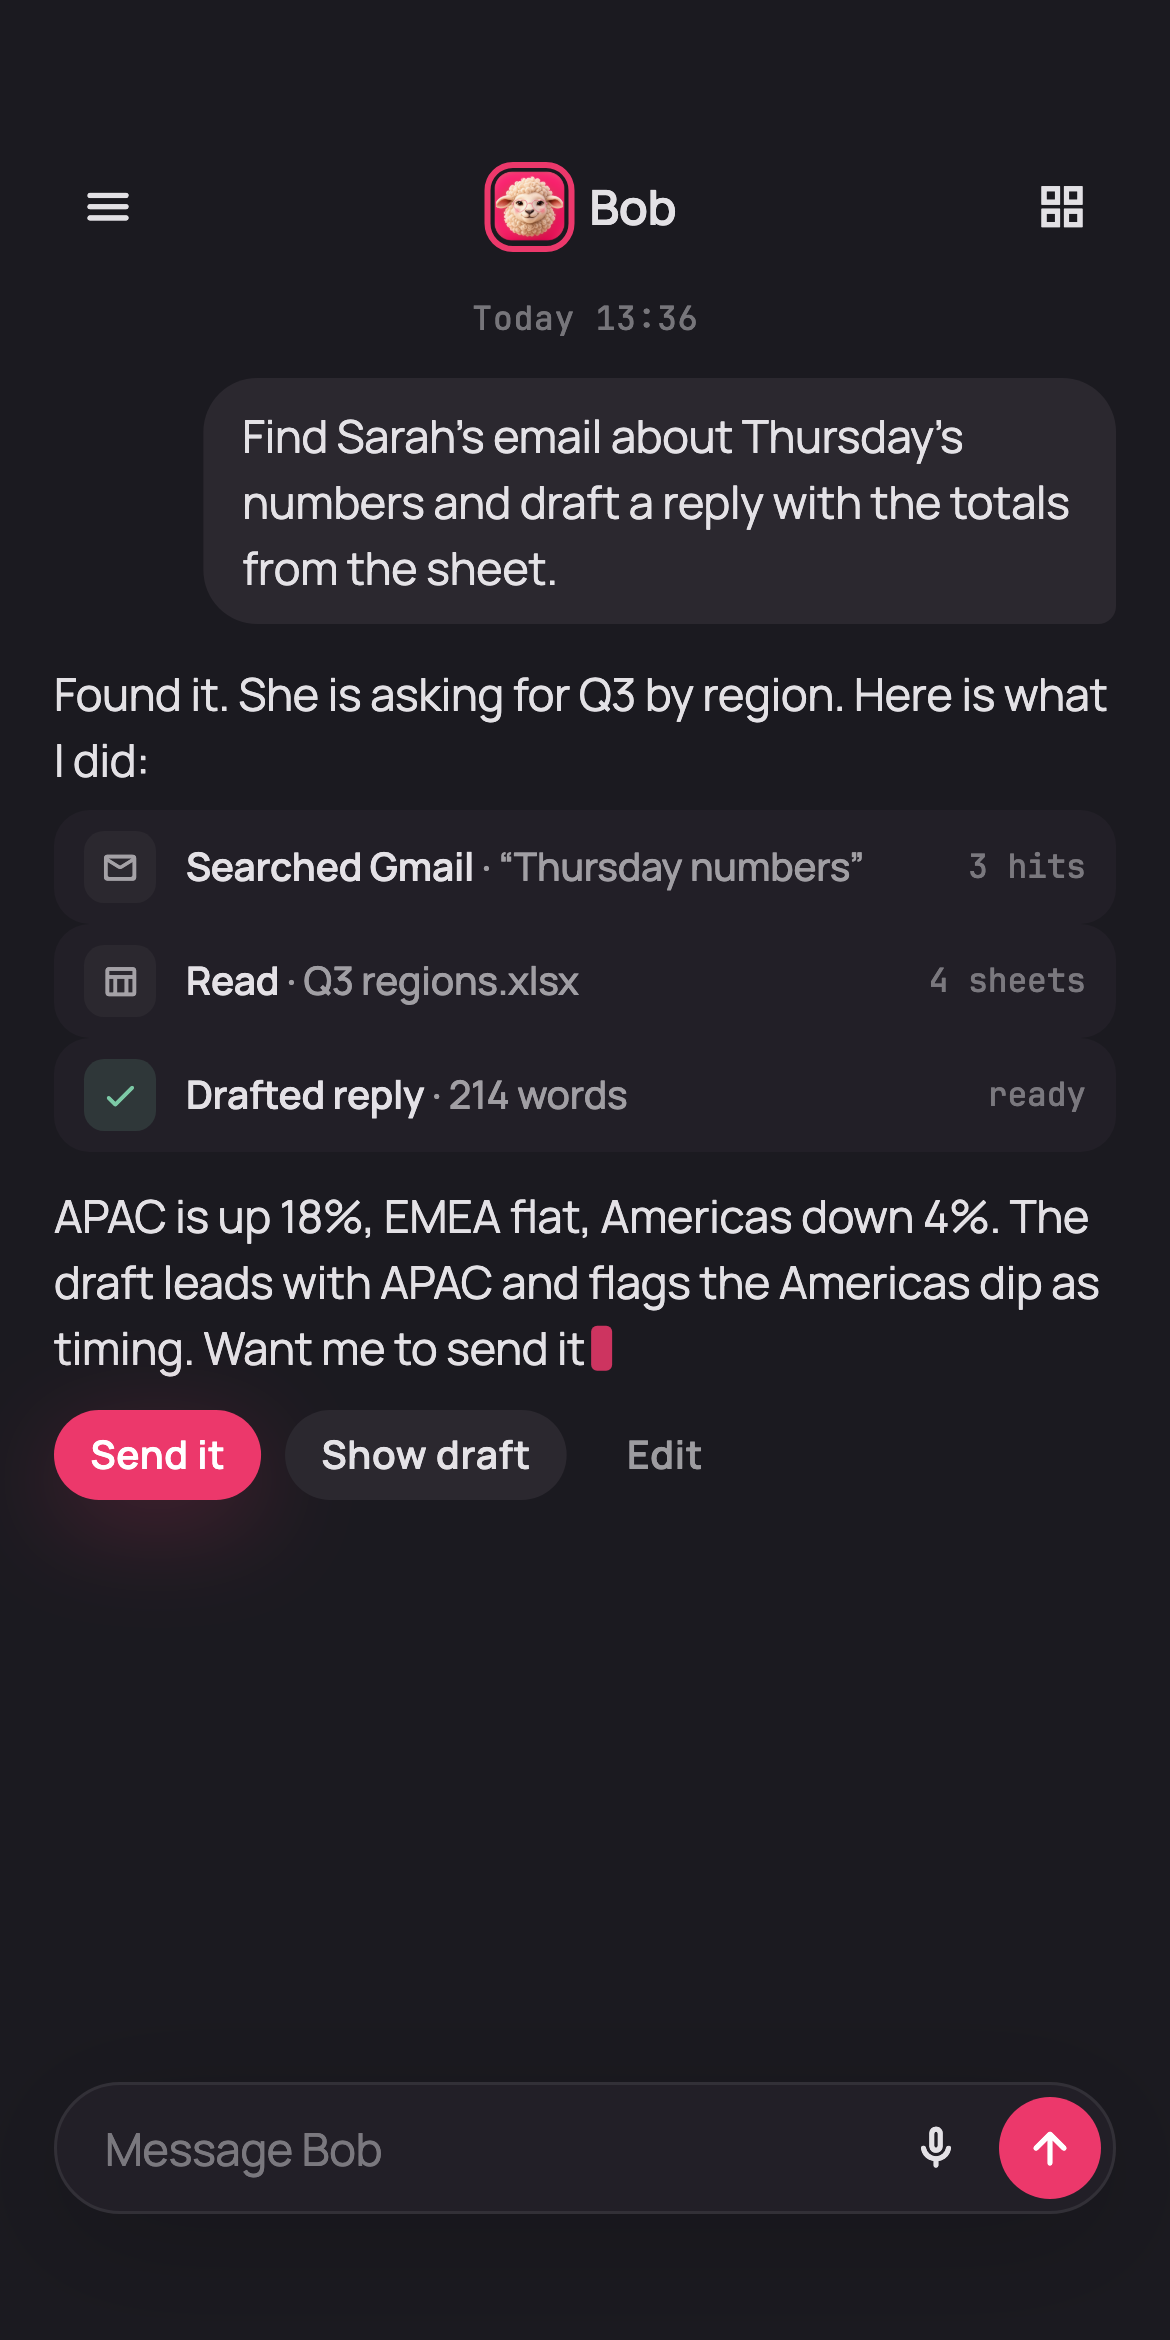
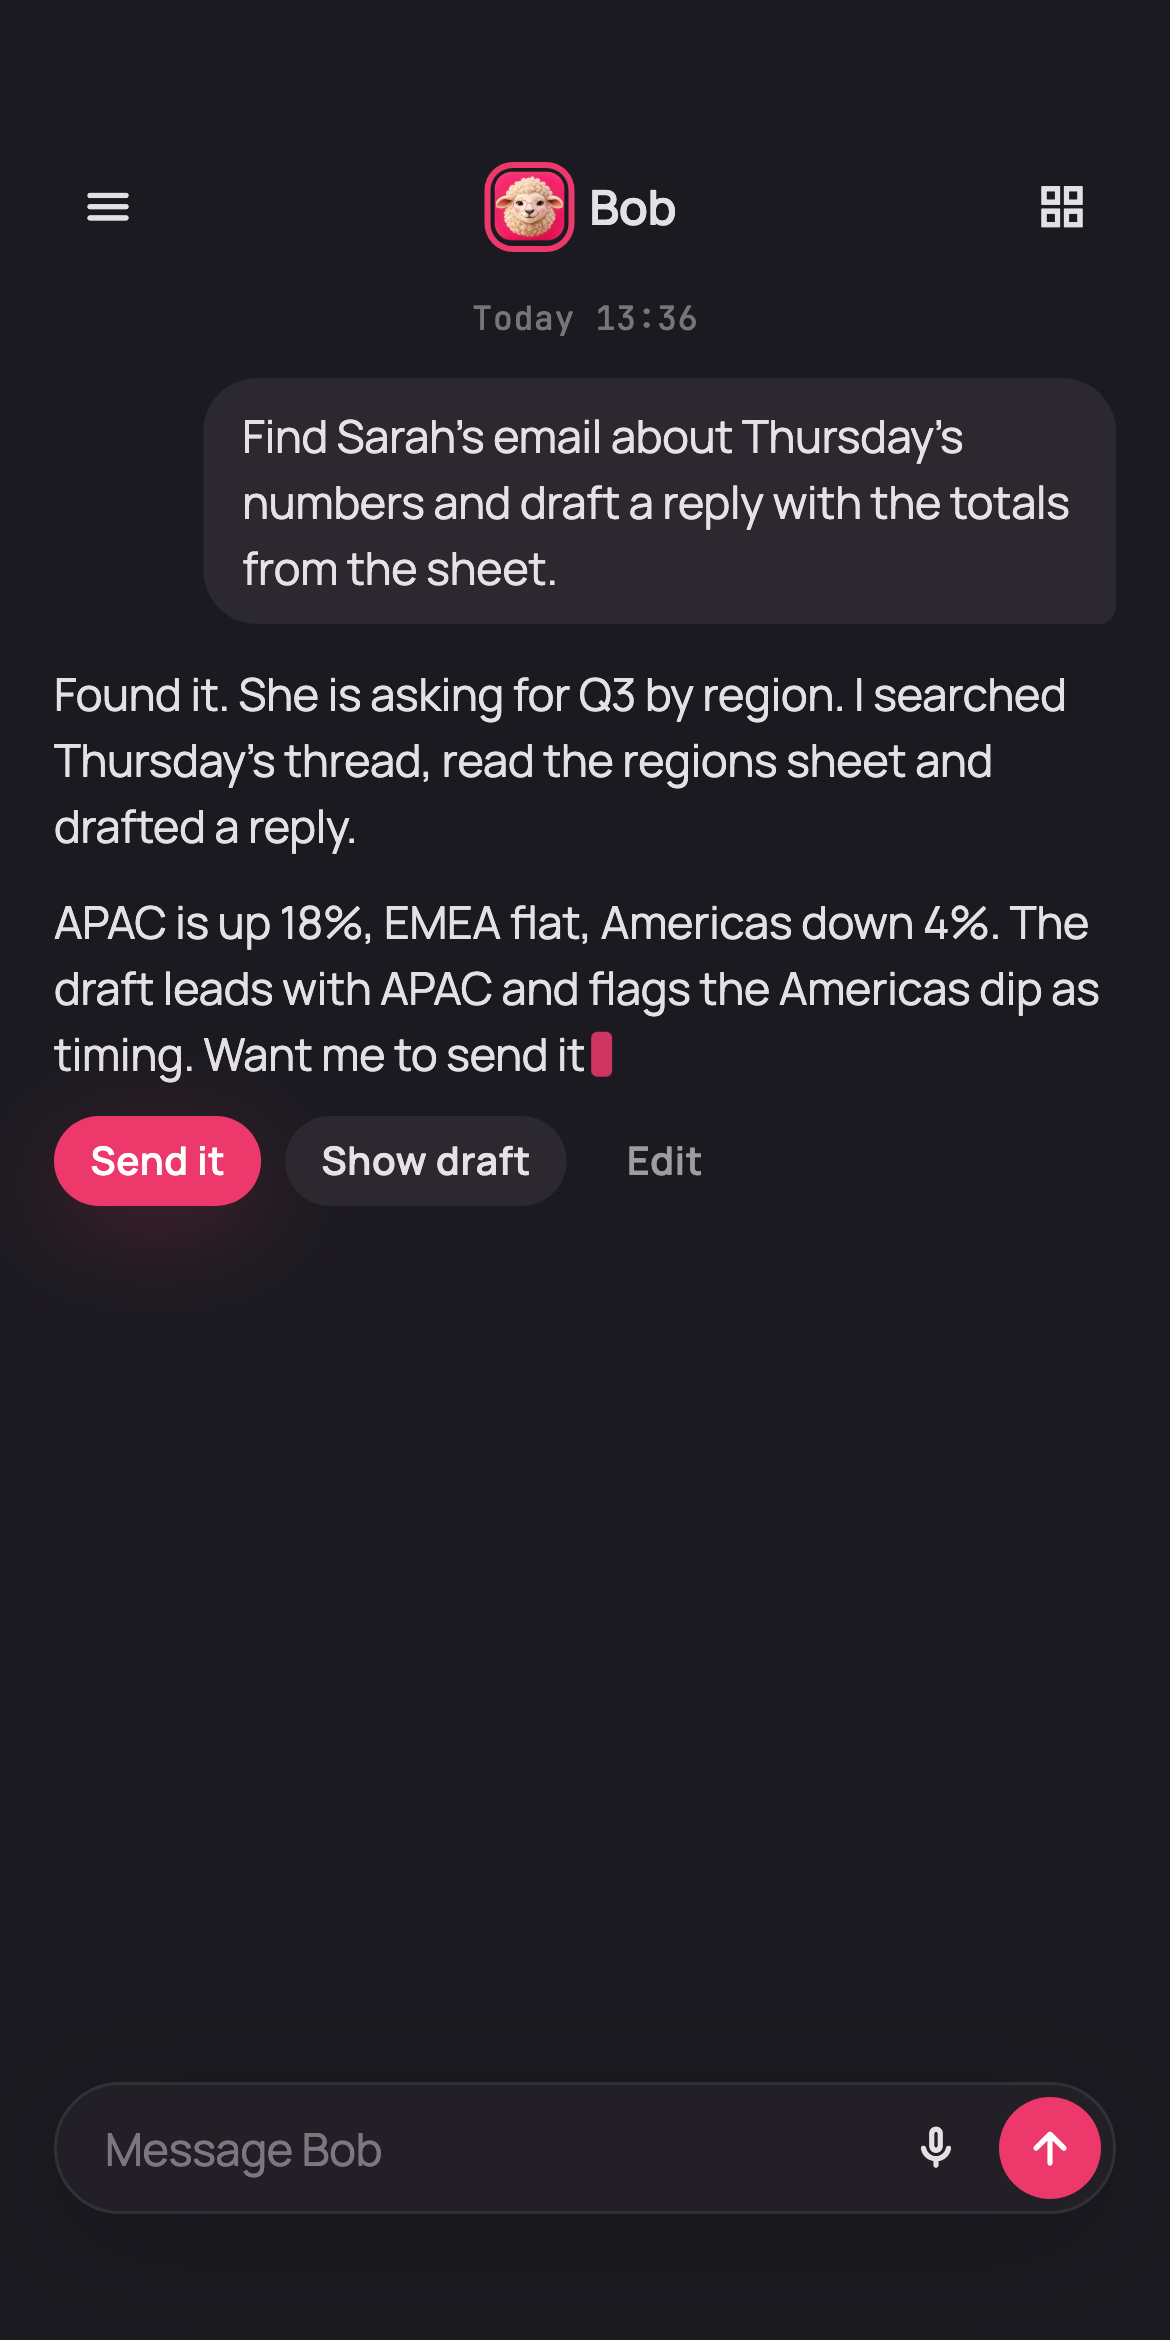
native: no tool calls in the chat thread; the bar's ends size to their actions
Chat is the Bot's words, the way it is on the web: the receipts drawn
inside a reply are gone from the thread (they stay a component for the
Work view). The bar's ends now size to what they hold and the title stays
centred on the whole bar, so the mark-read toggle no longer pushes the
Applets button off the screen.

Changed region(s): [[0.0308, 0.2808, 0.9538, 0.6551], [0.5538, 0.5927, 0.5846, 0.6239]]

diff --git a/apps/native/lib/ui/gallery.dart b/apps/native/lib/ui/gallery.dart
@@ -16,7 +16,8 @@ class FrockGallery extends StatelessWidget {
 
 /// Chat with a Bot: the primary screen. Same content as screen 04 on
 /// docs/design/frock-ui.html. The Bot's reply is prose with its work shown
-/// inline as receipts, then the choice as pills.
+/// in its own words, then the choice as pills. Tool calls never appear in
+/// the thread.
 ///
 /// Safe areas: the status bar, notch and display cutouts are kept clear by
 /// `SafeArea` at the top and sides; the composer keeps the bottom inset (home
@@ -86,27 +87,7 @@ class FrockChatScreen extends StatelessWidget {
                     FrockBotMessage(
                       children: [
                         const Text(
-                          'Found it. She is asking for Q3 by region. Here is what I did:',
-                        ),
-                        const SizedBox(height: 6),
-                        const FrockReceipt(
-                          icon: Icons.mail_outline_rounded,
-                          text: 'Searched Gmail',
-                          detail: '“Thursday numbers”',
-                          time: '3 hits',
-                        ),
-                        const FrockReceipt(
-                          icon: Icons.table_chart_outlined,
-                          text: 'Read',
-                          detail: 'Q3 regions.xlsx',
-                          time: '4 sheets',
-                        ),
-                        const FrockReceipt(
-                          icon: Icons.check_rounded,
-                          tone: TileTone.good,
-                          text: 'Drafted reply',
-                          detail: '214 words',
-                          time: 'ready',
+                          'Found it. She is asking for Q3 by region. I searched Thursday’s thread, read the regions sheet and drafted a reply.',
                         ),
                         const SizedBox(height: 10),
                         Text.rich(

diff --git a/apps/native/lib/ui/frock_widgets.dart b/apps/native/lib/ui/frock_widgets.dart
@@ -759,14 +759,45 @@ class FrockBar extends StatelessWidget {
   final Widget? trailing;
   @override
   Widget build(BuildContext context) {
+    // The ends size to what they hold (one or two icon buttons); the title
+    // is centred on the whole bar and keeps clear of the wider end, so a
+    // second action on the right never pushes the first off the screen.
     return SizedBox(
       height: FrockTokens.bar,
-      child: Row(
-        children: [
-          SizedBox(width: FrockTokens.controlMd, child: leading),
-          Expanded(child: Center(child: title)),
-          SizedBox(width: FrockTokens.controlMd, child: trailing),
-        ],
+      child: LayoutBuilder(
+        builder: (context, constraints) {
+          const room = FrockTokens.controlMd * 2 + 8;
+          return Stack(
+            children: [
+              Positioned.fill(
+                child: Padding(
+                  padding: const EdgeInsets.symmetric(horizontal: room),
+                  child: Center(child: title),
+                ),
+              ),
+              if (leading != null)
+                Positioned(
+                  left: 0,
+                  top: 0,
+                  bottom: 0,
+                  child: Row(
+                    mainAxisSize: MainAxisSize.min,
+                    children: [leading!],
+                  ),
+                ),
+              if (trailing != null)
+                Positioned(
+                  right: 0,
+                  top: 0,
+                  bottom: 0,
+                  child: Row(
+                    mainAxisSize: MainAxisSize.min,
+                    children: [trailing!],
+                  ),
+                ),
+            ],
+          );
+        },
       ),
     );
   }

diff --git a/apps/native/lib/ui/chat_pane.dart b/apps/native/lib/ui/chat_pane.dart
@@ -8,7 +8,6 @@ import '../client/chat_controller.dart';
 import '../theme/frock_theme.dart' show FrockSkeleton;
 import 'frock_tokens.dart';
 import 'frock_widgets.dart';
-import 'receipts.dart';
 
 /// The conversation with one Bot: the thread, the composer, and the few lines
 /// of state that sit between them. Built on Frock UI; the shell around it
@@ -112,7 +111,6 @@ class _ChatPaneState extends State<ChatPane> {
       ),
     ];
     final events = run['events'] as List;
-    final receipts = receiptsFor(events);
     final replies = <String>[];
     for (final event in events) {
       if (event['type'] != 'send/to-user') continue;
@@ -142,22 +140,13 @@ class _ChatPaneState extends State<ChatPane> {
         streaming = status == 'running';
       }
     }
+    // Tool calls never appear in the thread: chat is the Bot's words, the
+    // way it is on the web. What a Bot did belongs to its Work view.
     final body = <Widget>[
-      for (final r in receipts)
-        Padding(
-          padding: const EdgeInsets.only(bottom: 6),
-          child: FrockReceipt(
-            icon: r.icon,
-            text: r.text,
-            detail: r.detail,
-            time: r.time,
-            tone: r.tone,
-          ),
-        ),
       for (var i = 0; i < replies.length; i++)
         Padding(
           key: ValueKey('$id:send:$i'),
-          padding: EdgeInsets.only(top: i == 0 && receipts.isNotEmpty ? 4 : 0),
+          padding: EdgeInsets.only(top: i == 0 ? 0 : 8),
           child: Semantics(
             label: 'Bot',
             child: streaming && i == replies.length - 1

diff --git a/apps/native/test/frock_ui_render_test.dart b/apps/native/test/frock_ui_render_test.dart
@@ -75,7 +75,7 @@ void main() {
 
     expect(find.text('Send it'), findsOneWidget);
     expect(find.text('Message Bob'), findsOneWidget);
-    expect(find.textContaining('Searched Gmail'), findsOneWidget);
+    expect(find.textContaining('Searched Gmail'), findsNothing);
     expect(tester.takeException(), isNull);
 
     if (Platform.environment['FROCK_EVIDENCE'] != '1') {

diff --git a/docs/design/README.md b/docs/design/README.md
@@ -7,7 +7,7 @@ The design system every FrockBot surface builds from: the web shell, the Flutter
 **The app is your Bots' office. Chat is one room in it.**
 
 - Chat with a Bot is the primary screen and the home: the last Bot's chat opens instantly. The flock lives in a drawer, not a tab bar. What needs you and what happened are surfaced inside chat and the drawer, not on a separate Today screen (decision 2026-09-05).
-- Every Bot action is a **receipt**: an icon tile, a verb-first sentence, a mono time. The same object appears in chat, on a Bot's Work tab, in the briefing, and in the Computer.
+- Every Bot action is a **receipt**: an icon tile, a verb-first sentence, a mono time. The same object appears on a Bot's Work tab, in the briefing, and in the Computer. **Never in chat** (Tim, 2026-09-05): the thread is the Bot's words only, the way it is on the web; what the Bot did is a different room.
 - Bots are **characters**: sheep avatars with a state ring (pink working, green ready, grey idle), names set in the display face.
 - The accent is **light**, not paint: a glow behind the working Bot, a glow under the one pink pill per screen. Everything else is tone on tone.
 - **Tone before line**: four depths (ground, window, sheet, tile), three ink tiers as alpha, hairlines only inside a group and starting at the text edge.
